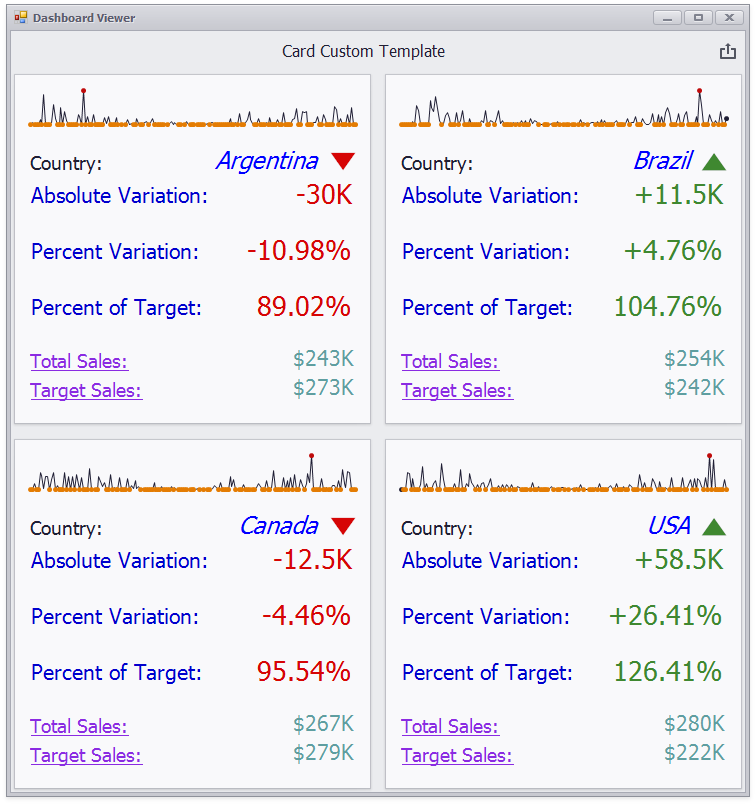
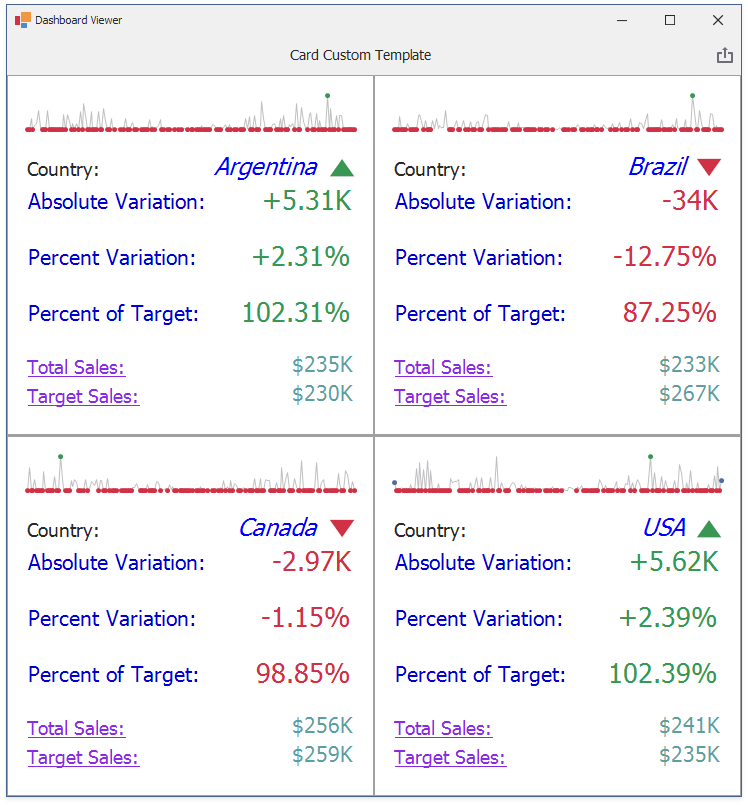
update 19.2

Changed region(s): [[0.0, 0.0, 1.0, 0.9938]]

diff --git a/CS/ViewerForm.cs b/CS/ViewerForm.cs
@@ -9,13 +9,18 @@ namespace CardCustomLayoutTemplateExample
         {
             InitializeComponent();
             dashboardViewer1.Dashboard = CreateDashboardWithCards();
+
         }
         Dashboard CreateDashboardWithCards()
         {
             Dashboard dashboard = new Dashboard();
             dashboard.Title.Text = "Card Custom Template";
             dashboard.CurrencyCultureName = "en-US";
-            DashboardObjectDataSource dataSource = new DashboardObjectDataSource(DataGenerator.GenerateTestData());
+
+            DashboardObjectDataSource dataSource = new DashboardObjectDataSource();
+            dashboardViewer1.AsyncDataLoading += (s, ev) => {
+                ev.Data = DataGenerator.GenerateTestData();
+            };
             dashboard.DataSources.Add(dataSource);
 
             CardDashboardItem cardItem = new CardDashboardItem();

diff --git a/CS/ViewerForm.Designer.cs b/CS/ViewerForm.Designer.cs
@@ -30,6 +30,7 @@
             // 
             // dashboardViewer1
             // 
+            this.dashboardViewer1.AsyncMode = true;
             this.dashboardViewer1.Dock = System.Windows.Forms.DockStyle.Fill;
             this.dashboardViewer1.Location = new System.Drawing.Point(0, 0);
             this.dashboardViewer1.Name = "dashboardViewer1";

diff --git a/Readme.md b/Readme.md
@@ -4,4 +4,5 @@ This example creates a custom template to display the [Card dashboard item](http
 
 ![screenshot](/images/screenshot.png)
 
+
 To accomplish this, create the [CardCustomLayoutTemplate](https://docs.devexpress.com/Dashboard/DevExpress.DashboardCommon.CardCustomLayoutTemplate) instance and assign it to the [Card.LayoutTemplate](https://docs.devexpress.com/Dashboard/DevExpress.DashboardCommon.Card.LayoutTemplate) property of a new [Card](https://docs.devexpress.com/Dashboard/DevExpress.DashboardCommon.Card) instance. Specify required settings and add the **Card** instance to the [CardDashboardItem.Cards](https://docs.devexpress.com/Dashboard/DevExpress.DashboardCommon.CardDashboardItem.Cards) collection.
